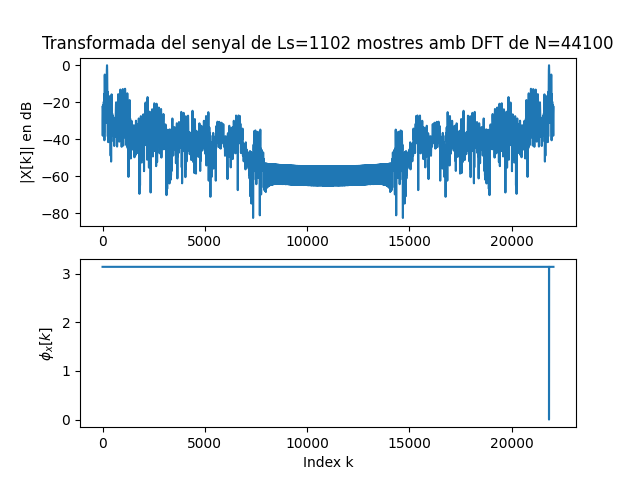
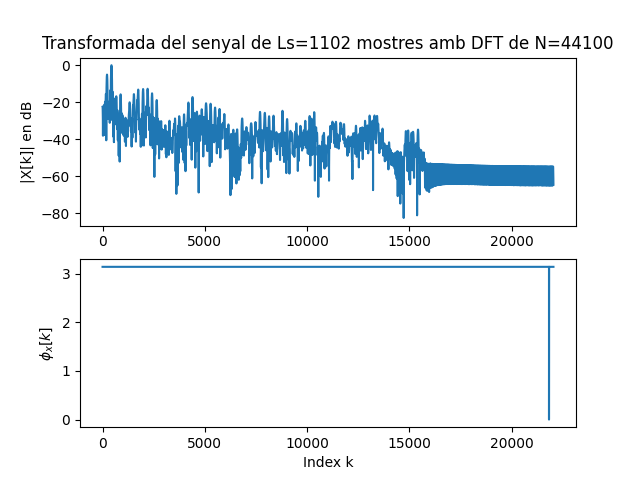
Definitiu

Changed region(s): [[0.1562, 0.125, 0.875, 0.4688]]

diff --git a/ppc_codi.py b/ppc_codi.py
@@ -149,7 +149,7 @@ Tm=1/fm                              # Període de mostratge
 t=Tm*np.arange(L)                    # Vector amb els valors de la variable temporal, de 0 a T
 Tx = 1 / fx
 Ls=int(fm*5*Tx)
-#Ls = 2*Ls #Afegim mé mostres per veure més clara la transformada
+
 
 N = fm
 X=fft(x[0 : Ls], N)         # Càlcul de la transformada de 5 períodes de la sinusoide
@@ -159,10 +159,10 @@ X_dB = 20*(np.log10(np.abs(X)/(max(np.abs(X)))))
 
 #Càlcul de fk:
 k = np.arange(N)
-kk = k/N * fm
+kk = (k/N) * fm
 
 plt.figure(8)                         # Nova figura
-plt.plot(kk/2 , X_dB)                  # Representació del mòdul de la transformada
+plt.plot(kk[0:int(fm/2)] , X_dB[0:int(fm/2)])                  # Representació del mòdul de la transformada
 plt.title(f'Transformada del senyal de Ls={Ls} mostres amb DFT de N={N}')   # Etiqueta del títol
 plt.ylabel('|X[k]| en dB')                # Etiqueta de mòdul
 plt.show()
@@ -205,7 +205,7 @@ XX_dB = 20*np.log10(np.abs(XX)/(max(np.abs(XX))))
 
 plt.figure(10)                         # Nova figura
 plt.subplot(211)                      # Espai per representar el mòdul
-plt.plot(kkk/2, XX_dB)                    # Representació del mòdul de la transformada
+plt.plot(kkk[0:int(fm/2)] , XX_dB[0:int(fm/2)])                  # Representació del mòdul de la transformada
 plt.title(f'Transformada del senyal de Ls={L2-L1} mostres amb DFT de N={N}')   # Etiqueta del títol
 plt.ylabel('|X[k]| en dB')                  # Etiqueta de mòdul
 plt.subplot(212)                      # Espai per representar la fase

diff --git a/README.md b/README.md
@@ -227,7 +227,7 @@ i també la seva transformada de Fourier en dB:
 <img src="img/Figure_10.png" width="480" align="center"> 
 
 
-- Podem veure que les freqüències més importants són les altes i les baixes, mentre que les mitjes no tenen tan de pes.
+- Podem veure que les freqüències més importants són les més baixes i les mitges, aproximadament fins els 15kHz.
 
 
 
